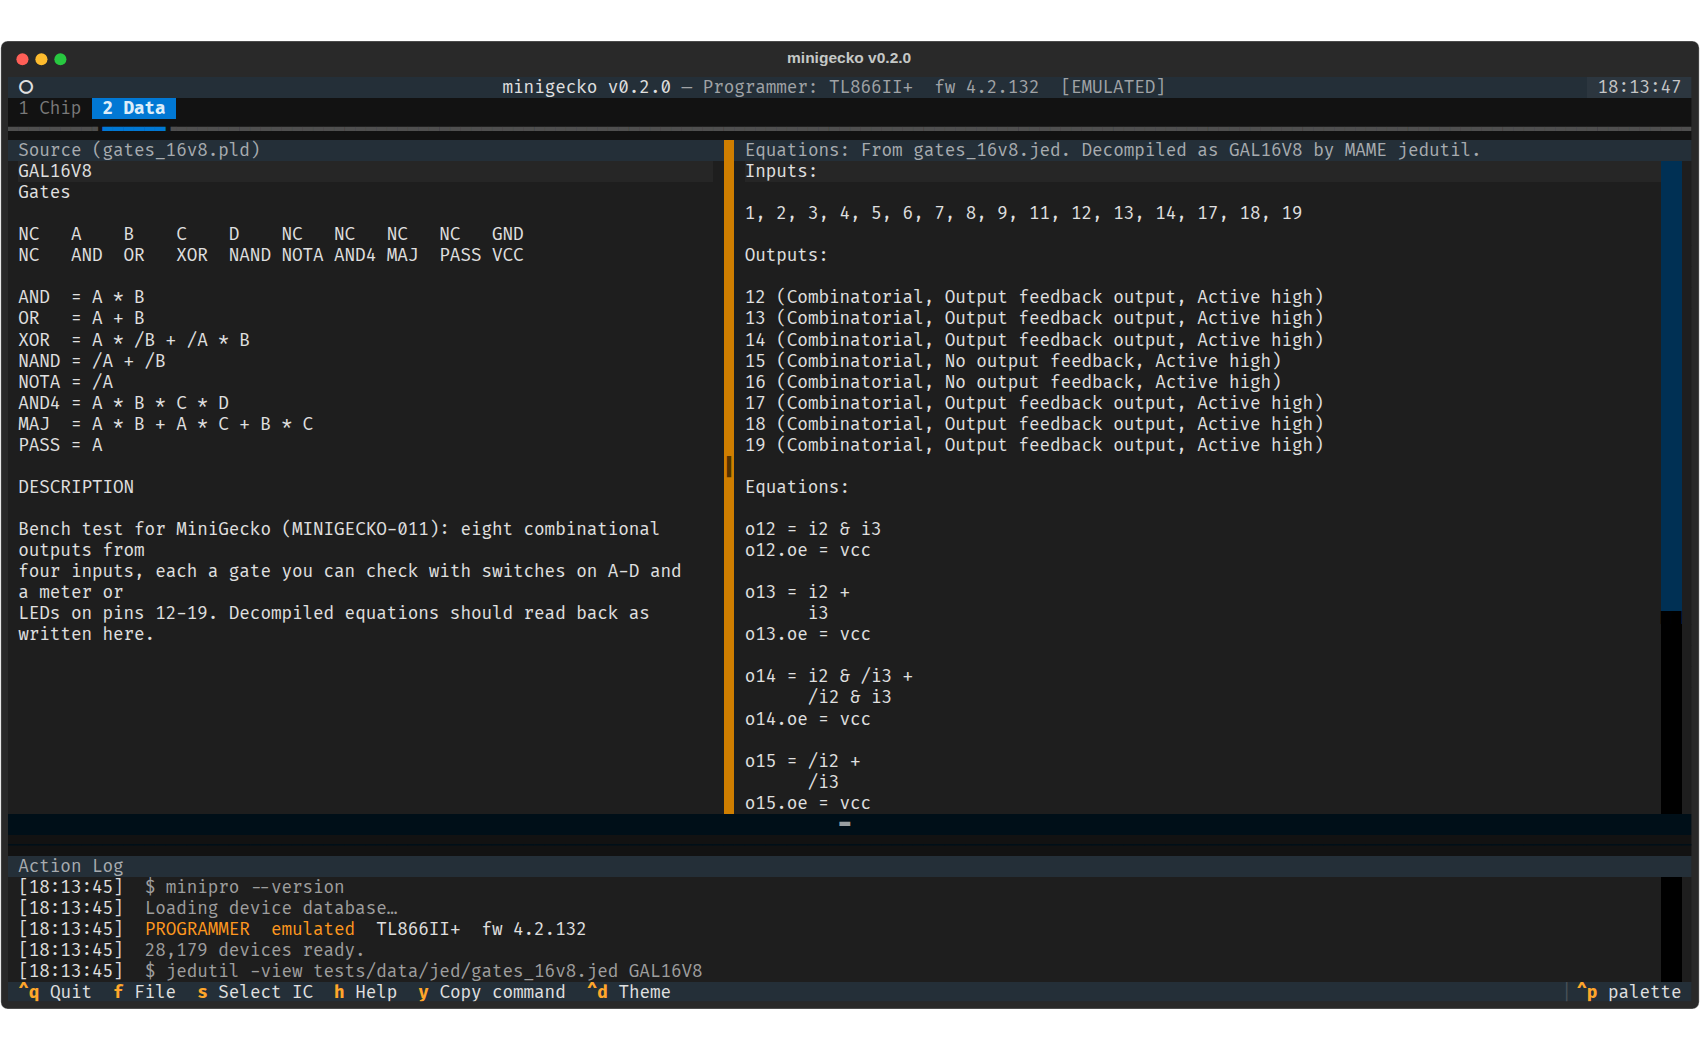
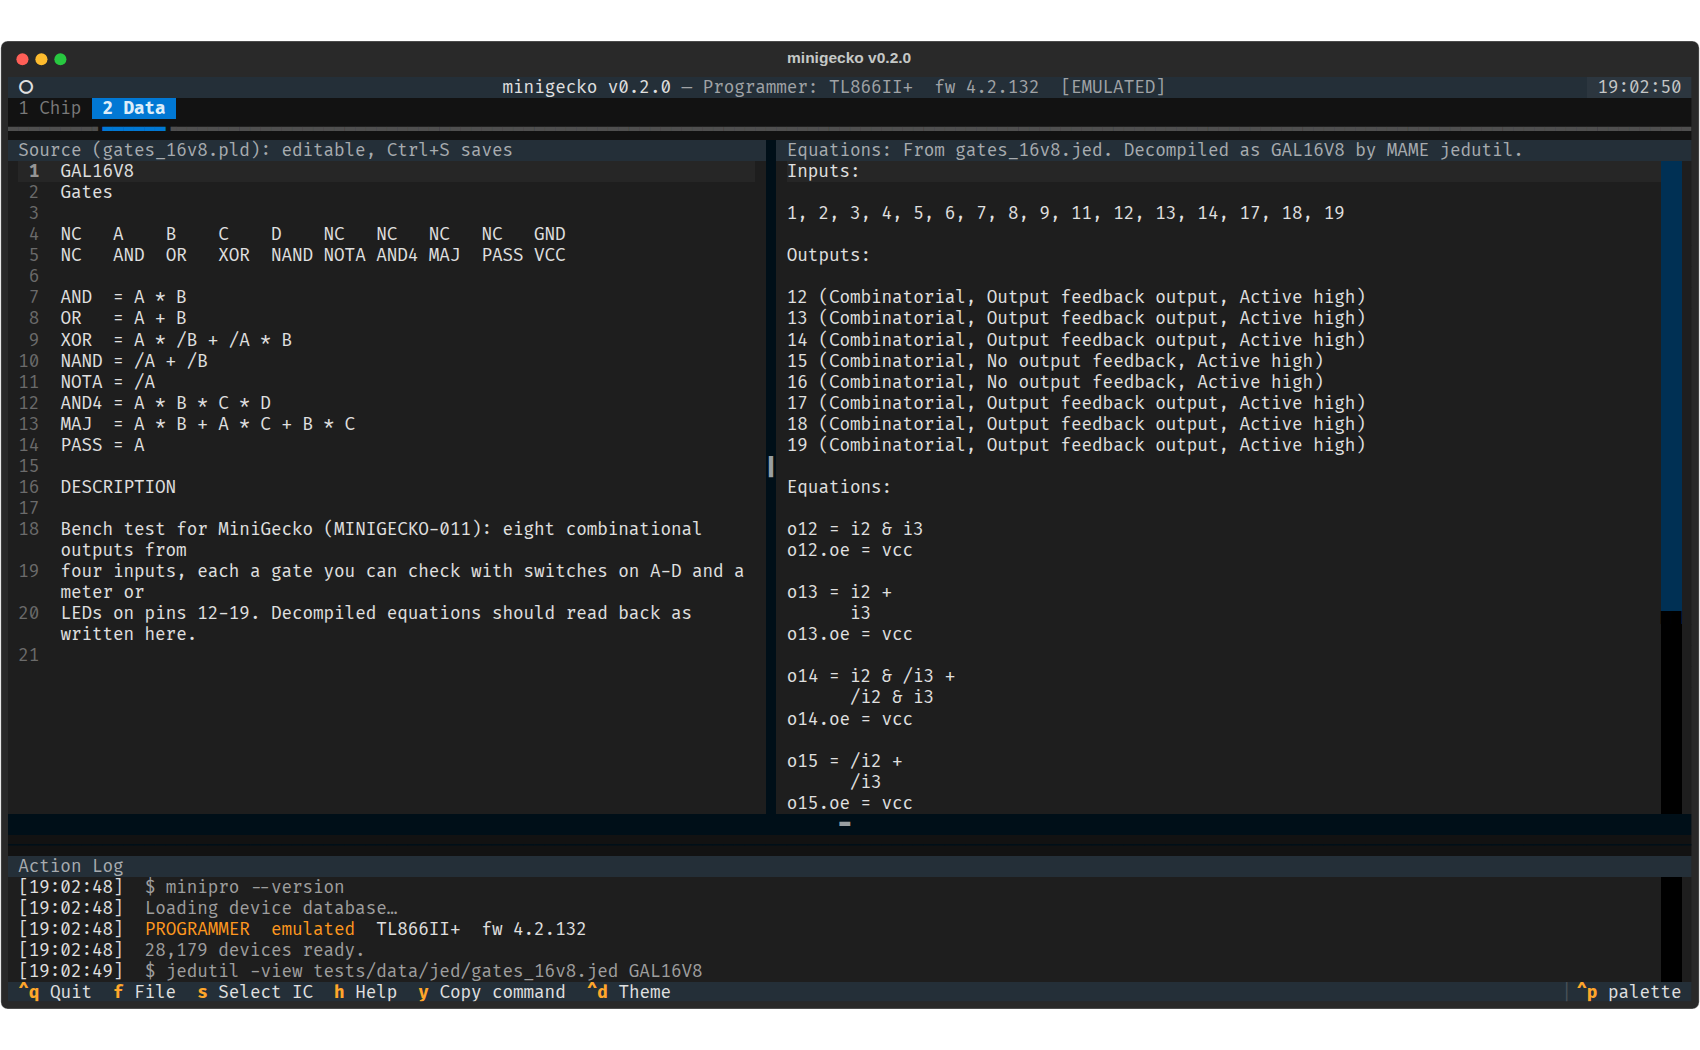
feat(ui): edit a .pld or plain text; Save in place, Save as (F12) (MINIGECKO-017, piece 3)
A .pld and plain-text files open editable, with line numbers; .jed, .chp
and chip reads stay read-only. Ctrl+S now saves edits in place (after a chip
read it acts as Save as); F12 is Save as, writing the text as edited.
Opening another file, reading a chip or quitting with unsaved edits warns
first; doing it again discards them. Escape leaves the editor so letter keys
reach the app again.

diff --git a/minigecko/ui/app_shell.py b/minigecko/ui/app_shell.py
@@ -65,6 +65,8 @@ class MinigeckoApp(App):
     BINDINGS: ClassVar[list[Binding]] = [
         Binding("f", "file", "File"),
         Binding("ctrl+s", "save", "Save"),
+        Binding("f12", "save_as", "Save as"),
+        Binding("escape", "leave_editor", "Leave editor", show=False),
         Binding("s", "select_ic", "Select IC"),
         Binding("d", "ic_ops", "IC Ops"),
         Binding("h", "help", "Help"),
@@ -84,6 +86,8 @@ class MinigeckoApp(App):
         self._read_from: str | None = None  # chip the loaded data was read from
         self._selected_ic: str | None = None
         self._last_command: str | None = None  # last external command line run
+        self._saved_text: str | None = None  # editable text as last saved; None = not editable
+        self._discard_armed: str | None = None  # action that may discard edits on its next press
 
     def _on_command(self, command: str, note: str = "") -> None:
         """Log an external command line; called from any thread before it runs."""
@@ -247,7 +251,42 @@ class MinigeckoApp(App):
     def _preload_help_manual(self) -> None:
         load_manual_text()
 
+    def _unsaved(self) -> bool:
+        """True when the open text has edits not yet saved."""
+        if self._saved_text is None:
+            return False
+        return self.query_one("#jed-view", TextArea).text != self._saved_text
+
+    def _may_discard(self, action: str, again: str) -> bool:
+        """True when *action* may replace the open text.
+
+        With unsaved edits the first try only warns; trying *action* again
+        discards them.
+        """
+        if not self._unsaved() or self._discard_armed == action:
+            self._discard_armed = None
+            return True
+        self._discard_armed = action
+        name = self._data_path.name if self._data_path else "the open file"
+        self.notify(
+            f"{name} has unsaved changes. Press Ctrl+S to save them, "
+            f"or {again} again to discard them.",
+            severity="warning",
+        )
+        return False
+
+    def action_leave_editor(self) -> None:
+        """Escape leaves a text pane, so letter keys reach the app again."""
+        if isinstance(self.focused, TextArea):
+            self.set_focus(None)
+
+    async def action_quit(self) -> None:
+        if self._may_discard("quit", "Ctrl+Q"):
+            self.exit()
+
     def action_file(self) -> None:
+        if not self._may_discard("file", "f"):
+            return
         start = self.get_last_directory()
 
         def _on_file(path: Path | None) -> None:
@@ -309,7 +348,10 @@ class MinigeckoApp(App):
                 equations, note = decompile(jed, self._selected_ic or "")
                 note = f"From {jed.name}. {note}"
             self.call_from_thread(
-                self._show_data, None, text, equations, note, f"{kind} ({path.name})"
+                lambda: self._show_data(
+                    None, text, equations, note, f"{kind} ({path.name})",
+                    editable=kind == "Source",  # a .chp is Galette's output: read-only
+                )
             )
             return
 
@@ -320,7 +362,9 @@ class MinigeckoApp(App):
 
         text = _as_text(data)
         if text is not None:  # plain text reads as text, across the whole tab
-            self.call_from_thread(self._show_data, None, text, None, "", path.name, True)
+            self.call_from_thread(
+                lambda: self._show_data(None, text, None, "", path.name, solo=True, editable=True)
+            )
             return
 
         self.call_from_thread(self._show_data, data, None)
@@ -333,10 +377,14 @@ class MinigeckoApp(App):
         note: str = "",
         text_title: str = "Fuse map (.jed)",
         solo: bool = False,
+        editable: bool = False,
     ) -> None:
         """Fill the Data tab and switch to it: hex for *data*, or *text*
         (titled *text_title*) beside the decompiled *equations*, or *note*
-        saying why not. With *solo*, the text fills the tab on its own."""
+        saying why not. With *solo*, the text fills the tab on its own; with
+        *editable*, it can be changed and saved."""
+        self._saved_text = text if (text is not None and editable) else None
+        self._discard_armed = None
         self.query_one("#data-empty").display = False
         hex_panel = self.query_one(HexPanel)
         hex_panel.display = data is not None
@@ -349,8 +397,13 @@ class MinigeckoApp(App):
             self.query_one("#jed-left").styles.width = (
                 "1fr" if solo else f"{self._state['jed_split']}%"
             )
-            self.query_one("#jed-title", Static).update(text_title)
-            self.query_one("#jed-view", TextArea).load_text(text)
+            self.query_one("#jed-title", Static).update(
+                f"{text_title}: editable, Ctrl+S saves" if editable else text_title
+            )
+            view = self.query_one("#jed-view", TextArea)
+            view.read_only = not editable
+            view.show_line_numbers = editable  # compiler errors name a line
+            view.load_text(text)
         if text is not None and not solo:
             # The note goes in the title, so the pane holds only jedutil's output.
             title = self.query_one("#eqn-title", Static)
@@ -392,7 +445,7 @@ class MinigeckoApp(App):
     def check_action(self, action: str, parameters: tuple) -> bool | None:
         if action == "ic_ops":
             return bool(self._selected_ic)
-        if action == "save":
+        if action in ("save", "save_as"):
             return bool(self._data_path)
         return True
 
@@ -448,6 +501,8 @@ class MinigeckoApp(App):
             self._log(f"[red]PIN CHECK  {ic_name} FAIL:[/]  {result.output.strip()}")
 
     def run_read_op(self, ic_name: str) -> None:
+        if not self._may_discard("read", "Read"):  # the read replaces the Data tab
+            return
         self._do_read(ic_name)
 
     @work(thread=True)
@@ -473,7 +528,7 @@ class MinigeckoApp(App):
 
     def _on_read_done(self, ic_name: str, path: Path) -> None:
         size = path.stat().st_size
-        self.log_action(f"[green]READ  {ic_name} OK[/]  {size:,} B  (ctrl+s to save it)")
+        self.log_action(f"[green]READ  {ic_name} OK[/]  {size:,} B  (Ctrl+S to save it)")
         self._data_path = path
         self._read_from = ic_name
         self._file_label = None  # the loaded data is the chip read now, not the last file
@@ -482,12 +537,37 @@ class MinigeckoApp(App):
         self._load_hex(path)
 
     def action_save(self) -> None:
-        """Save the loaded data (a file or a chip read) under a name the user picks."""
+        """Save edits to the open file in place; a chip read has no file yet,
+        so it goes to Save as."""
+        if not self._data_path:
+            self.log_action("[yellow]SAVE  no data loaded[/]")
+            return
+        if self._read_from:
+            self.action_save_as()
+            return
+        if not self._unsaved():
+            self.notify("No changes to save.")
+            return
+        text = self.query_one("#jed-view", TextArea).text
+        try:
+            self._data_path.write_text(text)
+        except OSError as exc:
+            self.log_action(f"[red]SAVE  failed:[/]  {exc}")
+            return
+        self._saved_text = text
+        self._discard_armed = None
+        self.log_action(f"[green]SAVE  OK[/]  {self._data_path}")
+
+    def action_save_as(self) -> None:
+        """Save the loaded data (a file, edited text or a chip read) under a
+        name the user picks; the new file becomes the open one."""
         src = self._data_path
         if not src:
             self.log_action("[yellow]SAVE  no data loaded[/]")
             return
         default = f"{self._read_from}{src.suffix}" if self._read_from else src.name
+        # Editable text is saved as it stands on screen, edits included.
+        text = self.query_one("#jed-view", TextArea).text if self._saved_text is not None else None
 
         def _on_save(save_path: Path | None) -> None:
             if not save_path:
@@ -495,7 +575,10 @@ class MinigeckoApp(App):
             import shutil
 
             try:
-                shutil.copy2(src, save_path)
+                if text is not None:
+                    save_path.write_text(text)
+                else:
+                    shutil.copy2(src, save_path)
             except OSError as exc:
                 self.log_action(f"[red]SAVE  failed:[/]  {exc}")
                 return
@@ -506,6 +589,8 @@ class MinigeckoApp(App):
             self._read_from = None
             self._update_subtitle()
             self.log_action(f"[green]SAVE  OK[/]  → {save_path}")
+            if text is not None:
+                self._load_hex(save_path)  # retitle, and pick up a .jed beside the new name
 
         self.push_screen(FilePickerScreen(start_path=self.get_last_directory(), save_name=default), _on_save)
 
@@ -616,6 +701,8 @@ class MinigeckoApp(App):
             )
 
     def run_erase_op(self, ic_name: str, blank_check_after: bool = False, read_after: bool = False) -> None:
+        if read_after and not self._may_discard("erase_read", "Erase"):
+            return
         self._do_erase(ic_name, blank_check_after, read_after)
 
     @work(thread=True)

diff --git a/tests/test_app_tabs.py b/tests/test_app_tabs.py
@@ -183,3 +183,84 @@ def test_text_detection():
     assert _as_text(b"AB\x00CD") is None  # zero byte
     assert _as_text(b"\xff\xff\xff\xff") is None  # erased EPROM: not UTF-8
     assert _as_text(b"\x1b[0mhello") is None  # other control bytes
+
+
+async def test_edit_a_pld_and_save_it_in_place(app, tmp_path):
+    pld = tmp_path / "gates.pld"
+    pld.write_text("GAL16V8\nGates\n")
+    async with app.run_test(size=(120, 36)) as pilot:
+        await pilot.pause(0.5)
+        _load(app, pld)
+        await pilot.pause(0.3)
+        view = app.query_one("#jed-view", TextArea)
+        assert not view.read_only and view.show_line_numbers
+
+        await pilot.press("ctrl+s")  # nothing changed yet: the file is untouched
+        assert pld.read_text() == "GAL16V8\nGates\n"
+
+        view.insert("; bench copy\n", (0, 0))
+        assert app._unsaved()
+        await pilot.press("ctrl+s")
+        await pilot.pause(0.1)
+        assert pld.read_text() == "; bench copy\nGAL16V8\nGates\n"
+        assert not app._unsaved()
+
+
+async def test_save_as_writes_the_edits_to_the_new_name(app, tmp_path, monkeypatch):
+    pld = tmp_path / "gates.pld"
+    pld.write_text("GAL16V8\nGates\n")
+    copy = tmp_path / "gates2.pld"
+    monkeypatch.setattr(app, "push_screen", lambda screen, callback: callback(copy))
+    async with app.run_test(size=(120, 36)) as pilot:
+        await pilot.pause(0.5)
+        _load(app, pld)
+        await pilot.pause(0.3)
+        app.query_one("#jed-view", TextArea).insert("; v2\n", (0, 0))
+        await pilot.press("f12")
+        await pilot.pause(0.5)
+        assert copy.read_text() == "; v2\nGAL16V8\nGates\n"
+        assert pld.read_text() == "GAL16V8\nGates\n"  # the original is untouched
+        assert app._data_path == copy and not app._unsaved()
+
+
+async def test_unsaved_edits_warn_once_before_they_are_lost(app, tmp_path):
+    pld = tmp_path / "gates.pld"
+    pld.write_text("GAL16V8\n")
+    async with app.run_test(size=(120, 36)) as pilot:
+        await pilot.pause(0.5)
+        _load(app, pld)
+        await pilot.pause(0.3)
+        app.query_one("#jed-view", TextArea).insert("x", (0, 0))
+        assert not app._may_discard("file", "f")  # first try only warns
+        assert app._may_discard("file", "f")  # the second discards
+        assert not app._may_discard("quit", "Ctrl+Q")  # another action warns afresh
+
+
+async def test_jed_and_chp_stay_read_only(app):
+    async with app.run_test(size=(120, 36)) as pilot:
+        await pilot.pause(0.5)
+        for path in (JED, JED.parent / "gates_16v8.chp"):
+            _load(app, path)
+            await pilot.pause(0.5)
+            assert app.query_one("#jed-view", TextArea).read_only
+            assert app._saved_text is None
+
+
+async def test_letters_type_in_the_editor_and_escape_leaves_it(app, tmp_path):
+    pld = tmp_path / "gates.pld"
+    pld.write_text("GAL16V8\n")
+    async with app.run_test(size=(120, 36)) as pilot:
+        await pilot.pause(0.5)
+        _load(app, pld)
+        await pilot.pause(0.3)
+        view = app.query_one("#jed-view", TextArea)
+        view.focus()
+        await pilot.press("f")  # typed, not the File key
+        assert view.text.startswith("f") and len(app.screen_stack) == 1
+        await pilot.press("escape")
+        assert app.focused is not view
+        await pilot.press("f")  # now the File key: unsaved edit, so it only warns
+        assert len(app.screen_stack) == 1 and app._discard_armed == "file"
+        await pilot.press("f")  # pressed again: discards and opens the picker
+        await pilot.pause(0.2)
+        assert len(app.screen_stack) == 2

diff --git a/minigecko/data/help/09-8-file-operations.md b/minigecko/data/help/09-8-file-operations.md
@@ -32,19 +32,27 @@ After a file is opened:
 - The action log records the opened filename and size.
 - The hex panel refreshes to show the file contents.
 
-### 8.2 Saving to a File
+### 8.2 Editing and Saving
 
-`Ctrl+S` saves the loaded data to a file you name. The key appears in the
-footer once data is loaded.
+A `.pld` source and any plain-text file open for editing, with line numbers.
+A `.jed`, a `.chp` and data read from a chip are read-only.
 
-Preconditions:
+While you type in the text, letter keys go into the text. Press `Escape` (or
+`Tab`) to leave it, so that `f`, `s`, `d` and the other keys work again.
 
-- Data must be loaded, either from a file you opened or from a previous device
-  read operation.
+- `Ctrl+S` (**Save**) writes your edits back to the open file. With nothing
+  changed it only says so. After a device read, which has no file yet, it
+  works like Save as.
+- `F12` (**Save as**) saves the loaded data, with any edits, under a name you
+  pick. The new file becomes the open one; the old file stays as it was.
 
-Workflow:
+Before an action would throw away unsaved edits (opening another file,
+reading a chip, quitting), MiniGecko warns you. Do the same thing again to
+discard the edits.
 
-1. Press `Ctrl+S`. The save dialog opens with a file name filled in: the
+Save as workflow:
+
+1. Press `F12`. The save dialog opens with a file name filled in: the
    chip's name after a device read (for example `AT28C64.bin`), otherwise the
    loaded file's name.
 2. Pick the folder in the tree (`Enter` on a folder chooses it), and edit the

diff --git a/minigecko/data/help/07-6-keyboard-shortcuts.md b/minigecko/data/help/07-6-keyboard-shortcuts.md
@@ -10,7 +10,9 @@ Global shortcuts:
 | Key | Action |
 | --- | --- |
 | `f` | Open the file picker |
-| `Ctrl+S` | Save the loaded data to a file |
+| `Ctrl+S` | Save edits to the open file (after a chip read: Save as) |
+| `F12` | Save as: save the loaded data under a new name |
+| `Escape` | Leave the text you are editing, so letter keys work again |
 | `s` | Open chip selection |
 | `d` | Open IC operations for the selected chip |
 | `h` | Open this manual |

diff --git a/minigecko/data/help/15-14-quick-reference.md b/minigecko/data/help/15-14-quick-reference.md
@@ -17,7 +17,8 @@
 | Key | Action |
 | --- | --- |
 | `f` | Open file picker |
-| `Ctrl+S` | Save the loaded data to a file |
+| `Ctrl+S` | Save edits to the open file |
+| `F12` | Save as: save the loaded data under a new name |
 | `1` / `2` | Show the Chip / Data tab |
 | `s` | Open chip selector |
 | `d` | Open IC operations (requires chip selected) |
